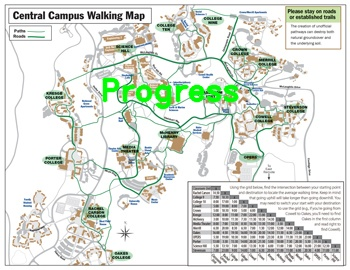
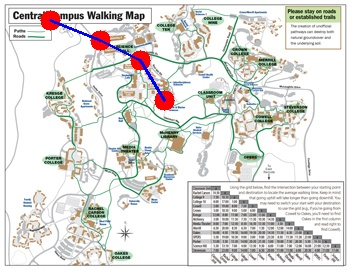
opencv code which adds dots and lines

Changed region(s): [[0.2286, 0.0889, 0.6857, 0.4148], [0.1143, 0.0296, 0.2286, 0.1185]]

diff --git a/arg_backend/views.py b/arg_backend/views.py
@@ -284,10 +284,31 @@ def getSecondHalf(request):
 
 @api_view(http_method_names=['GET'])
 def createAndServeImage(request):
+    # Read the image and create a copy
     image = cv2.imread('/home/sai/resilience_backend/arg_backend/commute-options-walking-map.jpg')
-    image = cv2.putText(image, 'Progress', (100,100), 50, 
-                   1, (0,255,0), 2, cv2.LINE_AA)
-    cv2.imwrite('/home/sai/resilience_backend/arg_backend/playback_maps/imageX.jpg',image)
+    image_copy = image.copy()
+
+    # Define the points for the dots and the lines
+    dot1 = (50, 20)
+    dot2 = (100, 40)
+    dot3 = (140, 60)
+    dot4 = (164, 100)
+    line1 = (dot1, dot2)
+    line2 = (dot2, dot3)
+    line3 = (dot3, dot4)
+
+    # Draw the dots and the lines
+    cv2.circle(image_copy, dot1, 10, (0, 0, 255), -1)
+    cv2.circle(image_copy, dot2, 10, (0, 0, 255), -1)
+    cv2.circle(image_copy, dot3, 10, (0, 0, 255), -1)
+    cv2.circle(image_copy, dot4, 10, (0, 0, 255), -1)
+    cv2.line(image_copy, line1[0], line1[1], (255, 0, 0), 2)
+    cv2.line(image_copy, line2[0], line2[1], (255, 0, 0), 2)
+    cv2.line(image_copy, line3[0], line3[1], (255, 0, 0), 2)
+
+    # Save and show the output image
+    cv2.imwrite('/home/sai/resilience_backend/arg_backend/playback_maps/imageX.jpg',image_copy)
+
     try:
         with open('/home/sai/resilience_backend/arg_backend/playback_maps/imageX.jpg', "rb") as f:
             return HttpResponse(f.read(), content_type="image/jpeg")
